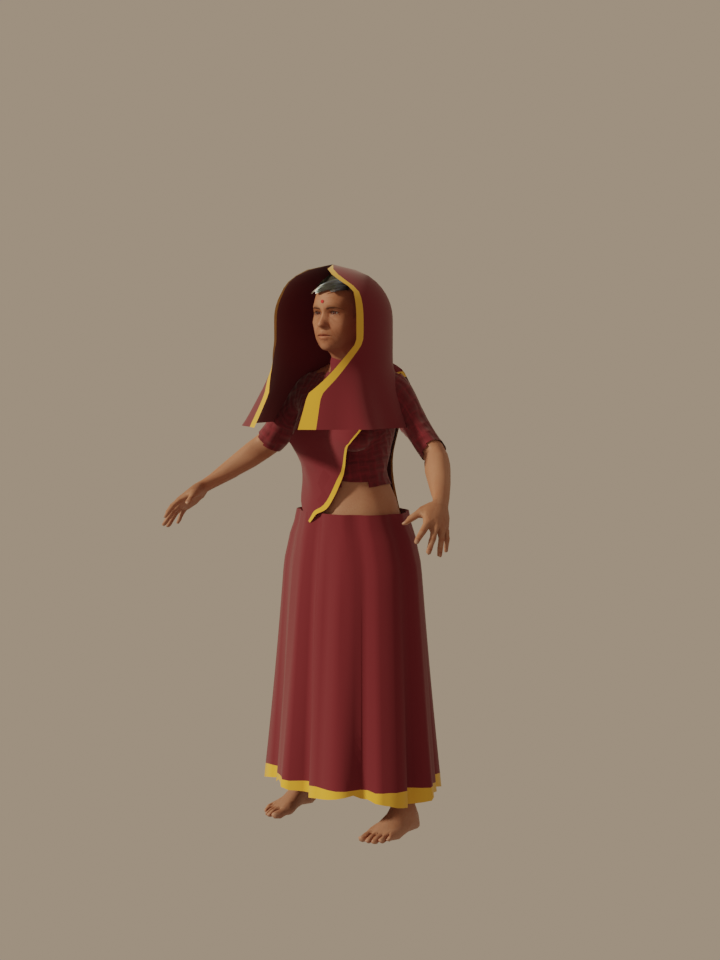
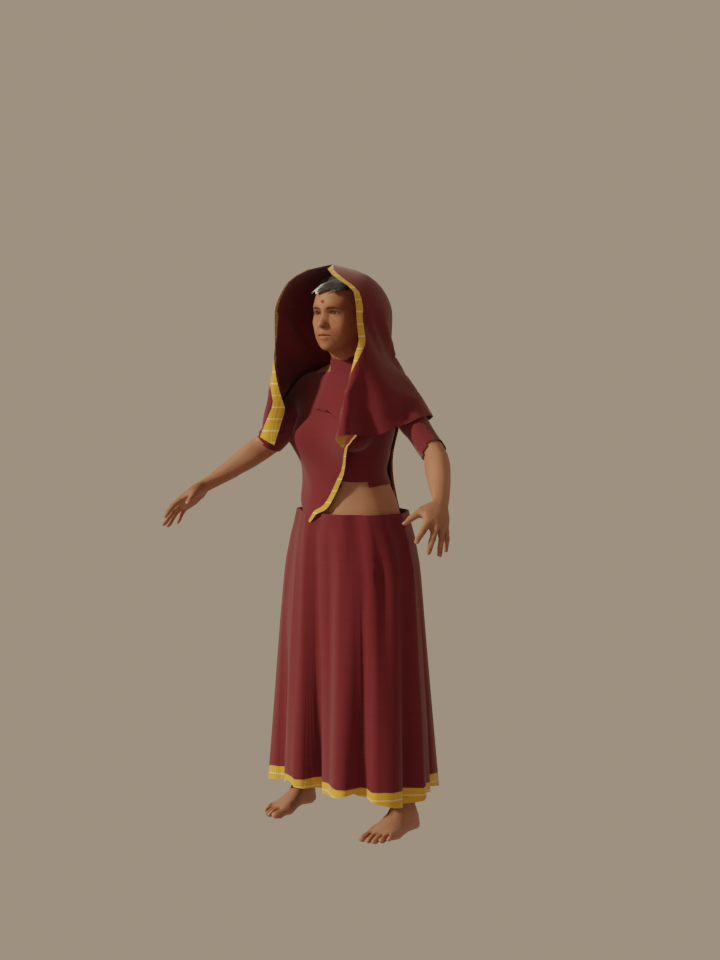
characters: snug waistbands (no rim), drop stray sleeve fragments; previews from run 43016504065

Changed region(s): [[0.3667, 0.625, 0.6111, 0.875], [0.3361, 0.3438, 0.6111, 0.5], [0.5194, 0.5625, 0.55, 0.6875]]

diff --git a/characters/blender/build_character.py b/characters/blender/build_character.py
@@ -348,6 +348,30 @@ def body_shell(name, groups, z_min, z_max, offset, mat, sleeve_z_min=None, exclu
         if not ok:
             kill.append(f)
     bmesh.ops.delete(bm, geom=kill, context="FACES")
+    # drop small disconnected fragments (e.g. slivers left around the wrists)
+    seen, comps = set(), []
+    for f0 in bm.faces:
+        if f0 in seen:
+            continue
+        stack, comp = [f0], []
+        seen.add(f0)
+        while stack:
+            f = stack.pop()
+            comp.append(f)
+            for e in f.edges:
+                for g in e.link_faces:
+                    if g not in seen:
+                        seen.add(g)
+                        stack.append(g)
+        comps.append(comp)
+    if comps:
+        big = max(len(c) for c in comps)
+        small = [f for c in comps if len(c) < 0.1 * big for f in c]
+        if small:
+            bmesh.ops.delete(bm, geom=small, context="FACES")
+        log(f"{name}: kept {sum(len(c) >= 0.1 * big for c in comps)} part(s), dropped {len(small)} stray faces")
+    loose = [v for v in bm.verts if not v.link_faces]
+    bmesh.ops.delete(bm, geom=loose, context="VERTS")
     bm.normal_update()
     for v in bm.verts:
         v.co += v.normal * offset
@@ -362,7 +386,7 @@ TORSO = ["mixamorig:Spine", "mixamorig:Spine1", "mixamorig:Spine2", "mixamorig:L
 # ───────────────────────── wrapped lower garment (saree / dhoti / petticoat) ─────────────────────────
 
 
-def wrap_skirt(name, z_top, z_bottom, mat, border_mat, pleats=True, flare=0.05, ease=0.012, rows=22, segs=72):
+def wrap_skirt(name, z_top, z_bottom, mat, border_mat, pleats=True, flare=0.05, ease=0.012, rows=22, segs=72, ease_top=None):
     bm = bmesh.new()
     rings = []
     hip_slab = body_slab(L["Hips"].z - 0.12, L["Hips"].z + 0.02)
@@ -384,13 +408,15 @@ def wrap_skirt(name, z_top, z_bottom, mat, border_mat, pleats=True, flare=0.05, 
         for s in range(segs):
             a = 2 * math.pi * s / segs
             fl = flare * t
-            rr_x, rr_y = rx + ease + fl, ry + ease + fl
+            # snug at the waistband, loosening as it falls (no visible rim/ledge at the top)
+            e = ease if ease_top is None else ease_top + (ease - ease_top) * min(1.0, t / 0.3)
+            rr_x, rr_y = rx + e + fl, ry + e + fl
             pleat = 0.0
             # front pleats: character faces −Y → front is a ≈ −π/2
             da = math.atan2(math.sin(a + math.pi / 2), math.cos(a + math.pi / 2))
             if pleats and abs(da) < 0.55 and t > 0.08:
                 pleat = 0.012 * min(1, t * 3) * (0.5 + 0.5 * math.cos(da * 22))
-            fold = (0.004 + 0.012 * t * t) * (math.sin(a * 9 + 0.7) + 0.55 * math.sin(a * 17 + 2.1) + 0.3 * math.sin(a * 31))
+            fold = (0.004 * min(1.0, t / 0.15) + 0.012 * t * t) * (math.sin(a * 9 + 0.7) + 0.55 * math.sin(a * 17 + 2.1) + 0.3 * math.sin(a * 31))
             hem = (0.01 * math.sin(a * 5) + (0.012 if (pleats and abs(da) < 0.55) else 0)) * (1 if r == rows else 0)
             ring.append(bm.verts.new((cx + (rr_x + pleat + fold) * math.cos(a), cy + (rr_y + pleat + fold) * math.sin(a), z + hem)))
         rings.append(ring)
@@ -563,7 +589,7 @@ kind = S["outfit"]
 if kind == "saree":
     blouse = cloth_mat("blouse", C.get("blouse", C["border"]), rough=0.8)
     garments.append(body_shell("blouse", TORSO, L["Spine"].z + 0.02, neck_z - 0.02, 0.004, blouse, sleeve_z_min=L["LeftArm"].z - 0.16))
-    garments.append(wrap_skirt("saree_skirt", hips_z + 0.06, foot_z + 0.025, main, border))
+    garments.append(wrap_skirt("saree_skirt", hips_z + 0.06, foot_z + 0.025, main, border, ease_top=0.004))
     # pallu: right waist → across chest → over left shoulder → down the back
     lx = shoulder_l.x + 0.02
     path = [
@@ -595,10 +621,10 @@ elif kind in ("dhoti_kurta", "kurta_pyjama"):
     knee_z = L["LeftLeg"].z
     # sits clearly outside the dhoti/pyjama (their pleats/folds used to poke through)
     hem_ease = 0.065 if kind == "dhoti_kurta" else 0.045
-    garments.append(wrap_skirt("kurta_hem", hips_z + 0.02, knee_z + 0.08, kurta, kurta, pleats=False, flare=0.03, ease=hem_ease))
+    garments.append(wrap_skirt("kurta_hem", hips_z + 0.02, knee_z + 0.08, kurta, kurta, pleats=False, flare=0.03, ease=hem_ease, ease_top=0.006))
     if kind == "dhoti_kurta":
         dhoti = cloth_mat("dhoti", C.get("dhoti", (0.95, 0.93, 0.86)))
-        garments.append(wrap_skirt("dhoti", hips_z - 0.02, foot_z + 0.16, dhoti, border, pleats=True, flare=0.02, ease=0.03))
+        garments.append(wrap_skirt("dhoti", hips_z - 0.02, foot_z + 0.16, dhoti, border, pleats=True, flare=0.02, ease=0.03, ease_top=0.008))
         if C.get("gamchha"):
             g = cloth_mat("gamchha", C["gamchha"], rough=0.8, stripe=(0.95, 0.93, 0.86))
             # gamchha over the left shoulder (on the trapezius, not out on the arm),
